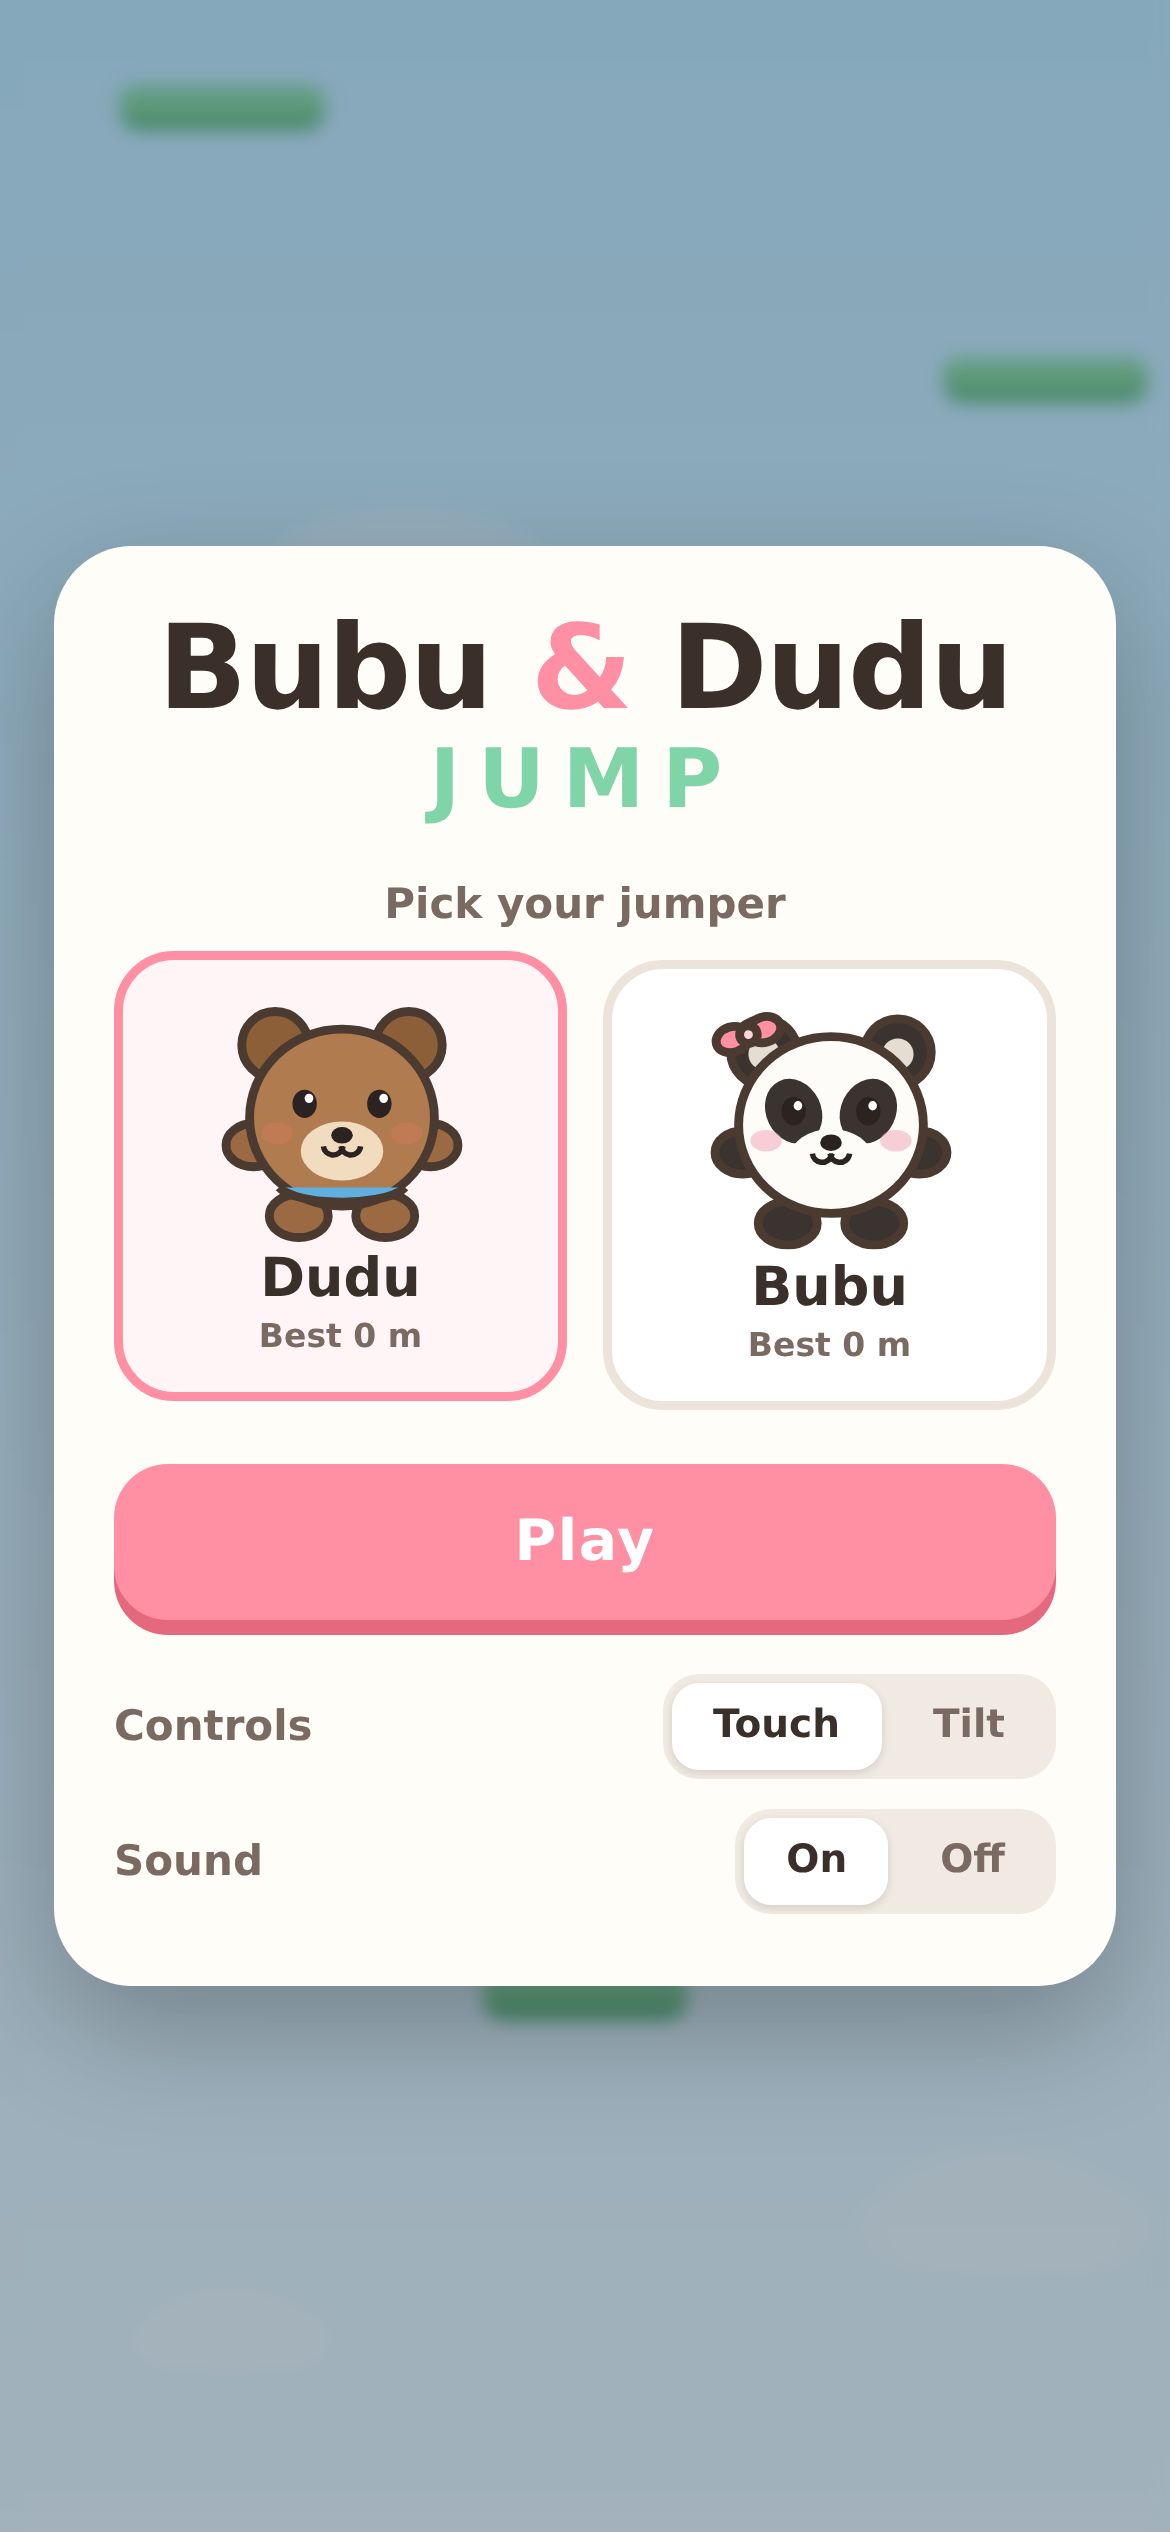
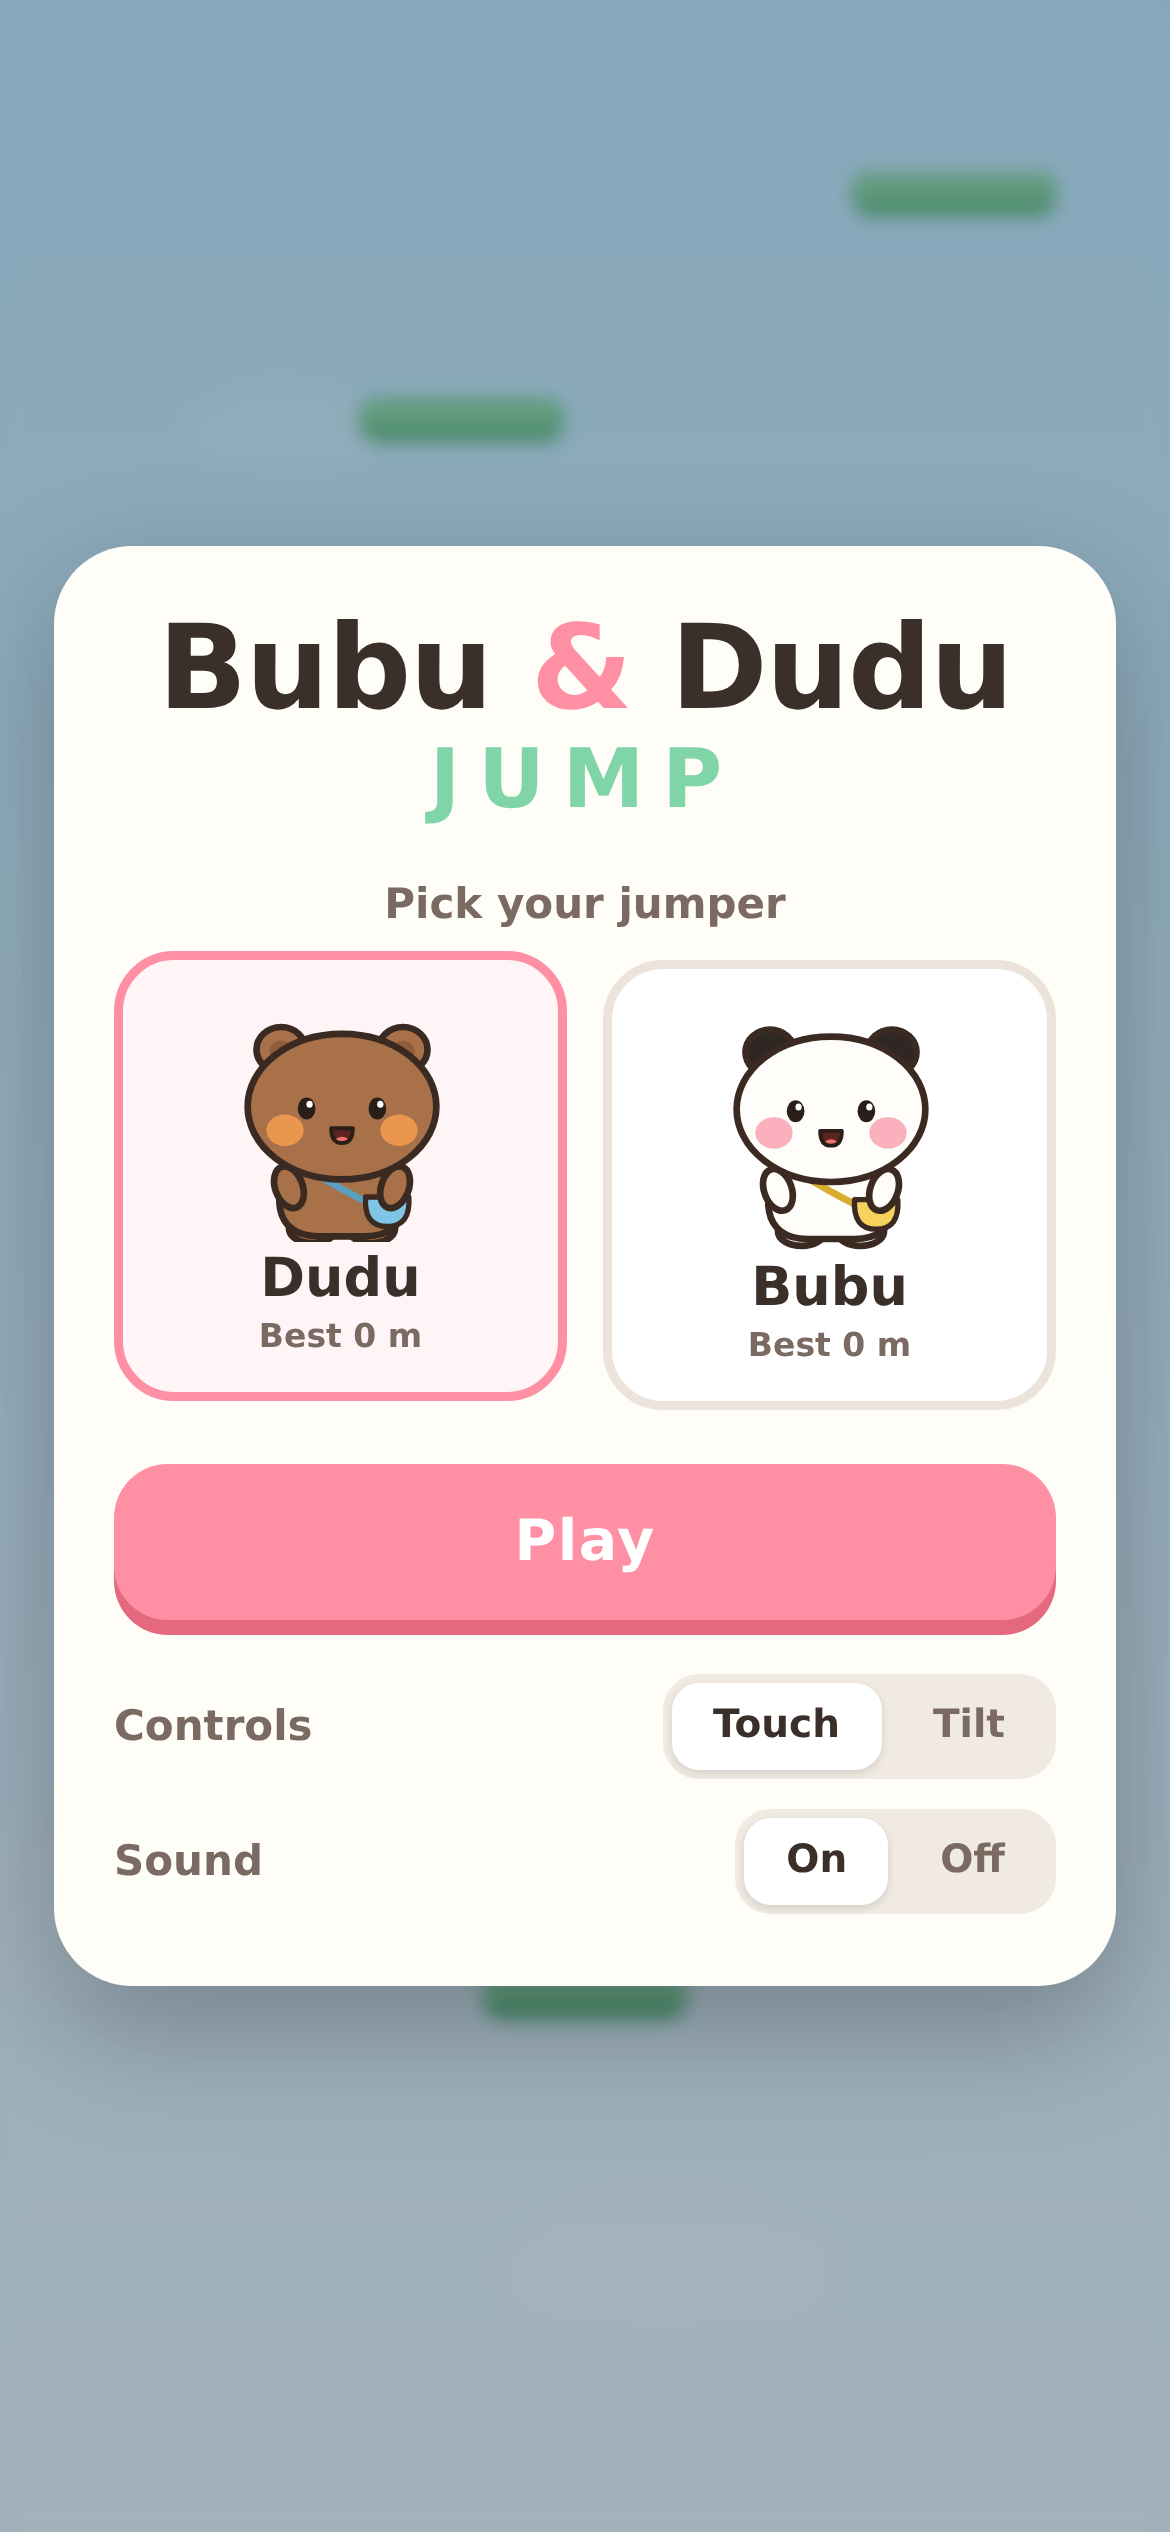
Redraw Dudu and Bubu closer to the original sticker art
Dudu is now a plain brown bear (no muzzle patch, no scarf) and Bubu an
all-white panda with black ears only (no eye patches, no bow). Both get
the wide head on a small pear body, tiny bead eyes, open mouth, big
blush and a crossbody bag. Raised-arm poses now poke out visibly.
App icon and README screenshots updated to match.

Claude-Session: https://claude.ai/code/session_01Sj2Hf6TVk4HaiGWLyewxnJ

diff --git a/js/characters.js b/js/characters.js
@@ -1,6 +1,13 @@
 /* ============================================================
    characters.js — procedural sprites for Dudu & Bubu.
 
+   Modelled on the "Bubu & Dudu" (Yier & Bubu) sticker style:
+   a big wide head on a small pear-shaped body, tiny widely-set
+   bead eyes, a little open mouth, big round blush and stubby
+   limbs. Dudu is the plain brown bear (no muzzle patch); Bubu
+   is the all-white panda with black ears only (no eye patches).
+   Each carries a little crossbody bag.
+
    Everything is drawn with plain canvas primitives inside a
    1x1 unit box centred on the origin, then scaled to `size`.
    No image files, so nothing to preload and nothing to go
@@ -10,32 +17,28 @@
 const CHARACTERS = {
   dudu: {
     name: 'Dudu',
-    fur: '#b07c4f',
-    furDark: '#8d5f39',
-    ear: '#8d5f39',
-    muzzle: '#f2dcc0',
-    limb: '#9c6a42',
-    blush: 'rgba(224,122,95,.35)',
-    accent: '#5fb0e0',   // scarf
-    hasScarf: true,
-    hasBow: false
+    fur: '#a8714a',
+    ear: '#a8714a',
+    earInner: '#8f5d3b',
+    limb: '#a8714a',
+    blush: 'rgba(250,160,80,.8)',
+    bag: '#7fc6e6',
+    strap: '#5a9fc2'
   },
   bubu: {
     name: 'Bubu',
-    fur: '#fdfcf8',
-    furDark: '#e4ded2',
-    ear: '#3a3330',
-    muzzle: '#fdfcf8',
-    limb: '#3a3330',
-    blush: 'rgba(240,150,170,.45)',
-    accent: '#ff8fa3',   // bow
-    hasScarf: false,
-    hasBow: true,
-    patches: true        // panda eye patches
+    fur: '#fffdf9',
+    ear: '#2f2724',
+    earInner: null,
+    limb: '#fffdf9',
+    blush: 'rgba(250,150,170,.75)',
+    bag: '#f7d35e',
+    strap: '#d8ad2f'
   }
 };
 
-const OUTLINE = '#4a3a30';
+const OUTLINE = '#3b2a22';
+const INK = '#2a1e19';
 
 function _ellipse(ctx, x, y, rx, ry, fill, stroke, lw) {
   ctx.beginPath();
@@ -60,105 +63,125 @@ function drawCharacter(ctx, key, x, y, size, o) {
   const squash = Math.max(-0.3, Math.min(0.3, opt.squash || 0));
   const limbs = opt.limbs || 'idle';
   const dead = !!opt.dead;
-  const lw = size * 0.045;
+  const lw = 0.034;
 
   ctx.save();
   ctx.translate(x, y);
   ctx.rotate((opt.roll || 0) + facing * 0.1);
   ctx.scale(size * (1 - squash * 0.55), size * (1 + squash));
   ctx.lineJoin = 'round';
+  ctx.lineCap = 'round';
 
-  // --- legs (behind body) ---
-  const legY = limbs === 'up' ? 0.46 : 0.5;
-  const legSpread = limbs === 'up' ? 0.30 : 0.22;
-  _ellipse(ctx, -legSpread, legY, 0.15, 0.11, c.limb, OUTLINE, lw / size);
-  _ellipse(ctx, legSpread, legY, 0.15, 0.11, c.limb, OUTLINE, lw / size);
+  // --- feet (behind body) ---
+  const footY = limbs === 'up' ? 0.53 : 0.54;
+  const footX = limbs === 'up' ? 0.19 : 0.15;
+  _ellipse(ctx, -footX, footY, 0.12, 0.075, c.limb, OUTLINE, lw);
+  _ellipse(ctx, footX, footY, 0.12, 0.075, c.limb, OUTLINE, lw);
 
-  // --- arms (behind body) ---
-  const armY = limbs === 'up' ? -0.22 : (limbs === 'fall' ? -0.30 : 0.14);
-  const armX = limbs === 'up' ? 0.46 : 0.45;
-  _ellipse(ctx, -armX, armY, 0.14, 0.11, c.limb, OUTLINE, lw / size);
-  _ellipse(ctx, armX, armY, 0.14, 0.11, c.limb, OUTLINE, lw / size);
-
-  // --- ears ---
-  for (const s of [-1, 1]) {
-    _ellipse(ctx, s * 0.34, -0.37, 0.17, 0.17, c.ear, OUTLINE, lw / size);
-    _ellipse(ctx, s * 0.34, -0.36, 0.08, 0.08, c.furDark, null, 0);
-  }
-
-  // --- body / head blob ---
-  _ellipse(ctx, 0, 0, 0.47, 0.45, c.fur, OUTLINE, lw / size);
-
-  // --- panda eye patches ---
-  if (c.patches) {
+  // --- raised arms sit behind the body ---
+  const raised = limbs !== 'idle';
+  if (raised) {
+    // 'up' = arms flung out to the sides, 'fall' = arms thrown overhead
+    const ax = limbs === 'up' ? 0.44 : 0.4;
+    const ay = limbs === 'up' ? 0.2 : -0.38;
+    const rot = limbs === 'up' ? -1.0 : -0.35;
     for (const s of [-1, 1]) {
       ctx.save();
-      ctx.translate(s * 0.19, -0.07);
-      ctx.rotate(s * 0.45);
-      _ellipse(ctx, 0, 0, 0.14, 0.17, c.ear, null, 0);
+      ctx.translate(s * ax, ay);
+      ctx.rotate(s * rot);
+      _ellipse(ctx, 0, 0, 0.075, 0.13, c.limb, OUTLINE, lw);
       ctx.restore();
     }
   }
 
-  // --- muzzle ---
-  _ellipse(ctx, 0, 0.17, 0.21, 0.15, c.muzzle, null, 0);
+  // --- body: small pear under the head ---
+  ctx.beginPath();
+  ctx.moveTo(-0.24, 0.18);
+  ctx.bezierCurveTo(-0.36, 0.34, -0.36, 0.58, -0.12, 0.58);
+  ctx.lineTo(0.12, 0.58);
+  ctx.bezierCurveTo(0.36, 0.58, 0.36, 0.34, 0.24, 0.18);
+  ctx.closePath();
+  ctx.fillStyle = c.fur; ctx.fill();
+  ctx.strokeStyle = OUTLINE; ctx.lineWidth = lw; ctx.stroke();
 
-  // --- eyes ---
-  const px = facing * 0.025;
+  // --- crossbody bag: strap over the shoulder, pouch on the hip ---
+  ctx.beginPath();
+  ctx.moveTo(-0.2, 0.22);
+  ctx.quadraticCurveTo(0.02, 0.36, 0.2, 0.44);
+  ctx.strokeStyle = c.strap; ctx.lineWidth = 0.035; ctx.stroke();
+  ctx.beginPath();
+  ctx.moveTo(0.12, 0.38);
+  ctx.lineTo(0.34, 0.38);
+  ctx.quadraticCurveTo(0.35, 0.53, 0.23, 0.53);
+  ctx.quadraticCurveTo(0.11, 0.53, 0.12, 0.38);
+  ctx.closePath();
+  ctx.fillStyle = c.bag; ctx.fill();
+  ctx.strokeStyle = OUTLINE; ctx.lineWidth = lw * 0.8; ctx.stroke();
+
+  // --- resting arms: little nubs hugging the body ---
+  if (!raised) {
+    for (const s of [-1, 1]) {
+      ctx.save();
+      ctx.translate(s * 0.27, 0.33);
+      ctx.rotate(s * 0.35);
+      _ellipse(ctx, 0, 0, 0.07, 0.11, c.limb, OUTLINE, lw);
+      ctx.restore();
+    }
+  }
+
+  // --- ears ---
   for (const s of [-1, 1]) {
-    const ex = s * 0.19, ey = -0.07;
+    _ellipse(ctx, s * 0.31, -0.37, 0.125, 0.115, c.ear, OUTLINE, lw);
+    if (c.earInner) _ellipse(ctx, s * 0.31, -0.36, 0.06, 0.055, c.earInner, null, 0);
+  }
+
+  // --- head: wide, slightly flattened ---
+  _ellipse(ctx, 0, -0.08, 0.48, 0.37, c.fur, OUTLINE, lw);
+
+  // --- blush: big soft circles under the eyes ---
+  _ellipse(ctx, -0.29, 0.04, 0.095, 0.08, c.blush, null, 0);
+  _ellipse(ctx, 0.29, 0.04, 0.095, 0.08, c.blush, null, 0);
+
+  // --- eyes: tiny widely-set beads ---
+  const px = facing * 0.02;
+  for (const s of [-1, 1]) {
+    const ex = s * 0.18 + px, ey = -0.07;
     if (dead) {
-      // X_X
-      ctx.strokeStyle = OUTLINE;
-      ctx.lineWidth = 0.05;
+      ctx.strokeStyle = INK;
+      ctx.lineWidth = 0.04;
       ctx.beginPath();
-      ctx.moveTo(ex - 0.06, ey - 0.06); ctx.lineTo(ex + 0.06, ey + 0.06);
-      ctx.moveTo(ex + 0.06, ey - 0.06); ctx.lineTo(ex - 0.06, ey + 0.06);
+      ctx.moveTo(ex - 0.045, ey - 0.045); ctx.lineTo(ex + 0.045, ey + 0.045);
+      ctx.moveTo(ex + 0.045, ey - 0.045); ctx.lineTo(ex - 0.045, ey + 0.045);
       ctx.stroke();
     } else {
-      _ellipse(ctx, ex + px, ey, 0.062, 0.072, '#2b2320', null, 0);
-      _ellipse(ctx, ex + px + 0.022, ey - 0.028, 0.022, 0.024, '#fff', null, 0);
+      _ellipse(ctx, ex, ey, 0.045, 0.056, INK, null, 0);
+      _ellipse(ctx, ex + 0.015, ey - 0.022, 0.016, 0.018, '#fff', null, 0);
     }
   }
 
-  // --- nose + mouth ---
-  _ellipse(ctx, 0, 0.09, 0.055, 0.042, '#2b2320', null, 0);
-  ctx.strokeStyle = '#2b2320';
-  ctx.lineWidth = 0.028;
+  // --- mouth: small open "o" with a red tongue ---
+  const mx = px * 0.6, my = 0.03;
   if (dead) {
     ctx.beginPath();
-    ctx.arc(0, 0.26, 0.075, Math.PI, Math.PI * 2);           // frown
-    ctx.stroke();
+    ctx.arc(mx, my + 0.07, 0.05, Math.PI * 1.1, Math.PI * 1.9);
+    ctx.strokeStyle = INK; ctx.lineWidth = 0.03; ctx.stroke();
   } else {
-    for (const s of [-1, 1]) {                                // :3 smile, two separate strokes
+    const mouth = () => {
       ctx.beginPath();
-      ctx.arc(s * 0.045, 0.14, 0.05, 0.12, Math.PI - 0.12);
-      ctx.stroke();
-    }
-  }
-
-  // --- blush ---
-  _ellipse(ctx, -0.33, 0.08, 0.08, 0.055, c.blush, null, 0);
-  _ellipse(ctx, 0.33, 0.08, 0.08, 0.055, c.blush, null, 0);
-
-  // --- accessories ---
-  if (c.hasBow) {
+      ctx.moveTo(mx - 0.055, my);
+      ctx.lineTo(mx + 0.055, my);
+      ctx.quadraticCurveTo(mx + 0.055, my + 0.075, mx, my + 0.075);
+      ctx.quadraticCurveTo(mx - 0.055, my + 0.075, mx - 0.055, my);
+      ctx.closePath();
+    };
+    mouth();
+    ctx.fillStyle = '#5c2320'; ctx.fill();
     ctx.save();
-    ctx.translate(-0.42, -0.46);
-    ctx.rotate(-0.3);
-    _ellipse(ctx, -0.085, 0, 0.085, 0.065, c.accent, OUTLINE, lw / size);
-    _ellipse(ctx, 0.085, 0, 0.085, 0.065, c.accent, OUTLINE, lw / size);
-    _ellipse(ctx, 0, 0, 0.045, 0.045, '#ffd2dc', OUTLINE, lw / size);
+    ctx.clip();
+    _ellipse(ctx, mx, my + 0.075, 0.04, 0.032, '#ef6f6a', null, 0);
     ctx.restore();
-  }
-  if (c.hasScarf) {
-    ctx.beginPath();
-    ctx.ellipse(0, 0.33, 0.33, 0.1, 0, Math.PI * 0.08, Math.PI * 0.92);
-    ctx.fillStyle = c.accent;
-    ctx.fill();
-    ctx.strokeStyle = OUTLINE;
-    ctx.lineWidth = lw / size;
-    ctx.stroke();
+    mouth();
+    ctx.strokeStyle = INK; ctx.lineWidth = 0.02; ctx.stroke();
   }
 
   ctx.restore();

diff --git a/README.md b/README.md
@@ -45,7 +45,7 @@ python3 -m http.server 8911
 ```
 index.html              markup + all UI overlays
 css/style.css           mobile-first styling, safe-area aware
-js/characters.js        Dudu & Bubu drawn procedurally with canvas primitives
+js/characters.js        Dudu (brown bear) & Bubu (white panda), drawn procedurally
 js/game.js              physics, platform generation, camera, input, rendering
 assets/icon.svg         app icon
 manifest.webmanifest    installable as a fullscreen home-screen app
